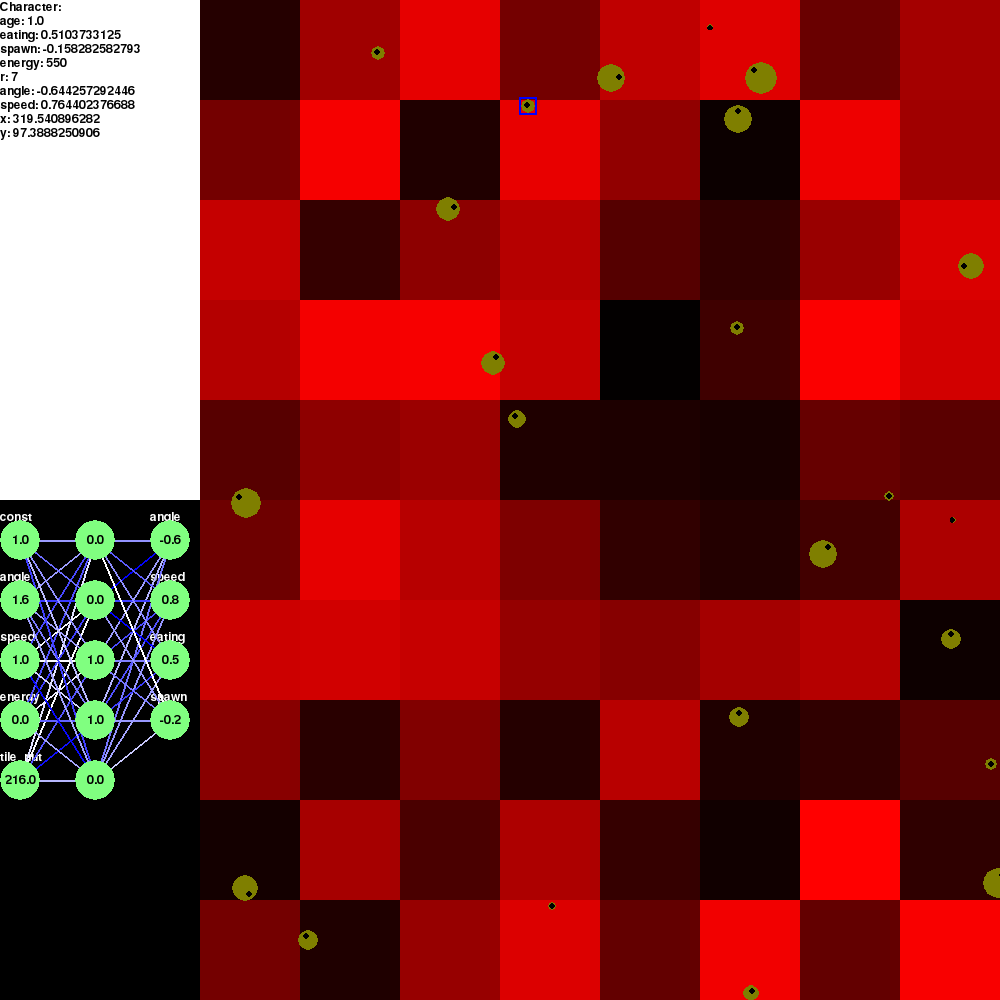
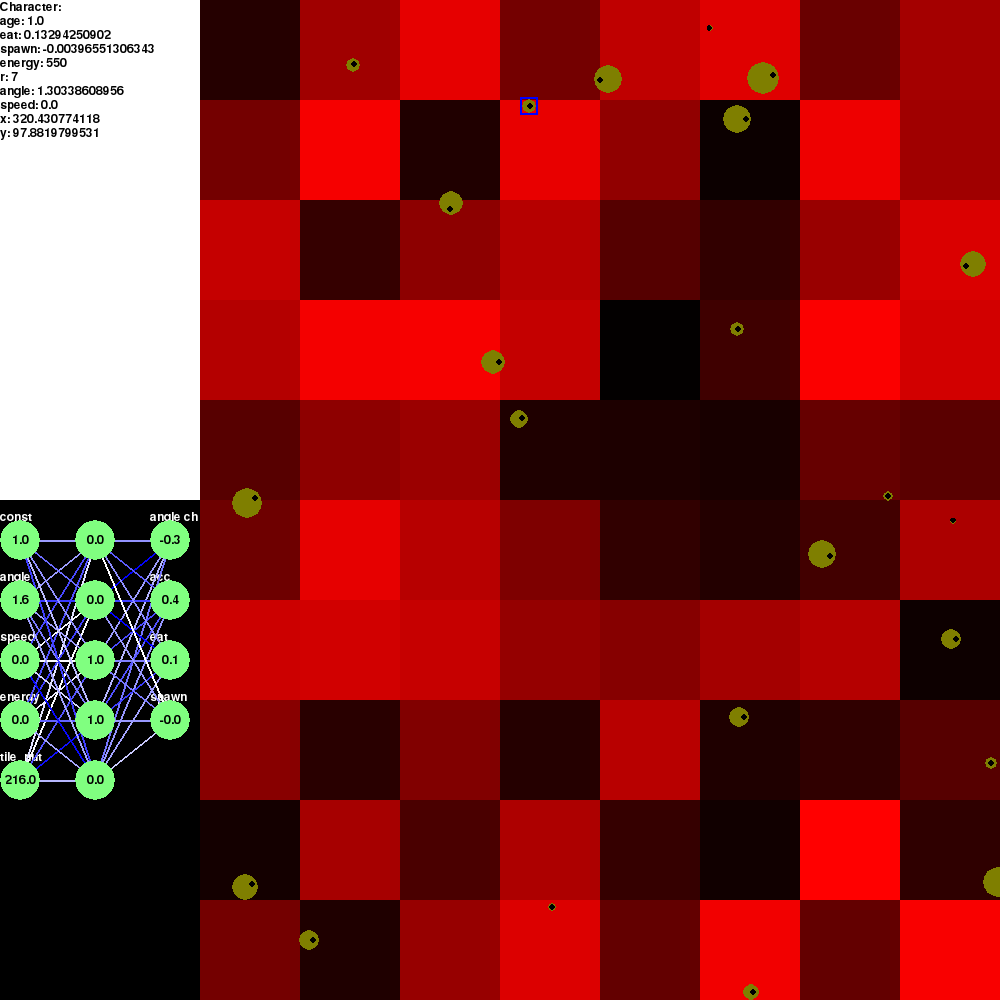
Replace angle and speed output neurons with angle change and acceleration

diff --git a/novel-evolve/characters.py b/novel-evolve/characters.py
@@ -54,7 +54,7 @@ class Brain(object):
             self.hidden0.append(Neuron(neuron_input_weights))
         self.outputs = []
         for output_neuron_weights in output_weights:
-            self.outputs.append(Neuron(output_neuron_weights, fn=None))
+            self.outputs.append(Neuron(output_neuron_weights, fn=lambda x: x**3))
 
     def process(self, *input_values):
         for neuron, input_value in zip(self.inputs, input_values):
@@ -106,13 +106,17 @@ class Character(pygame.sprite.Sprite):
         self.r = radius   # radius, m
         self._x = None # x coord, m
         self._y = None # y coord, m
-        self._angle = math.pi / 2 # radians clockwise from north
-        self._speed = 1 # m/s
+
+        self._angle = math.pi / 2.0 # radians clockwise from north
+        self._angle_change = 0.0
+
+        self._speed = 0.0 # m/s
+        self._acceleration = 0.0 # m/s^2
 
         self._energy = 500 # J
         self._energy_burn_rate = 50 # J/s
         self._age = 0.0 # s
-        self._eating = 0.0 # > 0 means eat
+        self._eat = 0.0 # > 0 means eat
         self._spawn = 0.0 # > 0 means try to reproduce
 
         self.brain = None
@@ -225,21 +229,21 @@ class Character(pygame.sprite.Sprite):
         )
         outputs = self.brain.process(*inputs)
         (
-            self._angle,
-            self._speed, # TODO this should be acceleration
-            self._eating,
+            self._angle_change,
+            self._acceleration,
+            self._eat,
             self._spawn,
         ) = outputs
 
         # eating:
-        if self._eating > 0:
+        if self._eat > 0:
             eating_rate = 100 # J/s
             amount_to_eat = eating_rate * dt
             if current_tile.nutrition > amount_to_eat:
                 self._energy += amount_to_eat
                 current_tile.nutrition -= amount_to_eat
         
-        # reproducing
+        # reproducing:
         if self._spawn > 0:
             if self._energy > 1000:
                 self._energy -= 1000
@@ -255,9 +259,10 @@ class Character(pygame.sprite.Sprite):
                         op = operator.add
                 world.allcharacters.add(newchar)
 
-        # speed and position:
+        # movement:
         prev_x, prev_y = self._x, self._y
-        ddist = self._speed * dt
+        ddist = self._speed + (self._acceleration * dt)
+        self._angle = (self._angle + (self._angle_change * dt)) % (2 * math.pi)
         x = self._x + ddist * math.sin(self._angle)
         y = self._y - ddist * math.cos(self._angle)
         self.x = min(max(0, x), self.world.canvas_w - self.r)
@@ -291,7 +296,7 @@ class Character(pygame.sprite.Sprite):
         return '\n'.join([
             "Character:",
             "age: %s" % self._age,
-            "eating: %s" % self._eating,
+            "eat: %s" % self._eat,
             "spawn: %s" % self._spawn,
             "energy: %s" % self._energy,
             "r: %s" % self.r,

diff --git a/novel-evolve/brainview.py b/novel-evolve/brainview.py
@@ -24,7 +24,7 @@ class BrainView(viewport.Viewport):
         
         input_labels = ('const', 'angle', 'speed', 'energy', 'tile_nut')
         hidden_labels = ()
-        output_labels = ('angle', 'speed', 'eating', 'spawn')
+        output_labels = ('angle ch', 'acc', 'eat', 'spawn')
 
         for i, layer in enumerate((input_labels, hidden_labels, output_labels)):
             for j, label in enumerate(layer):
